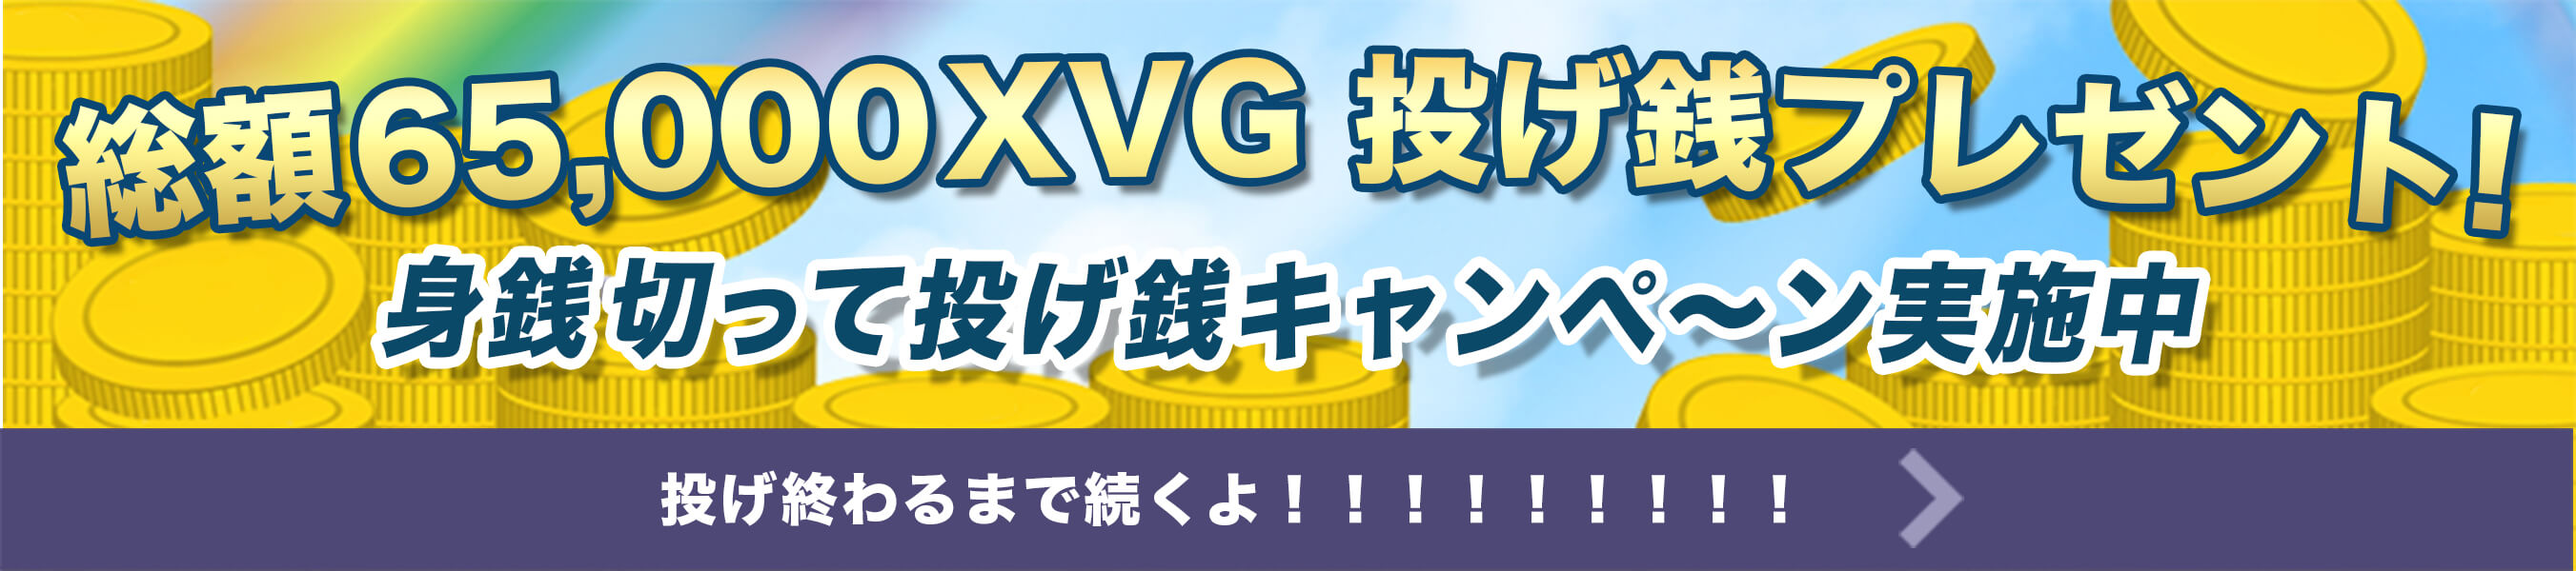
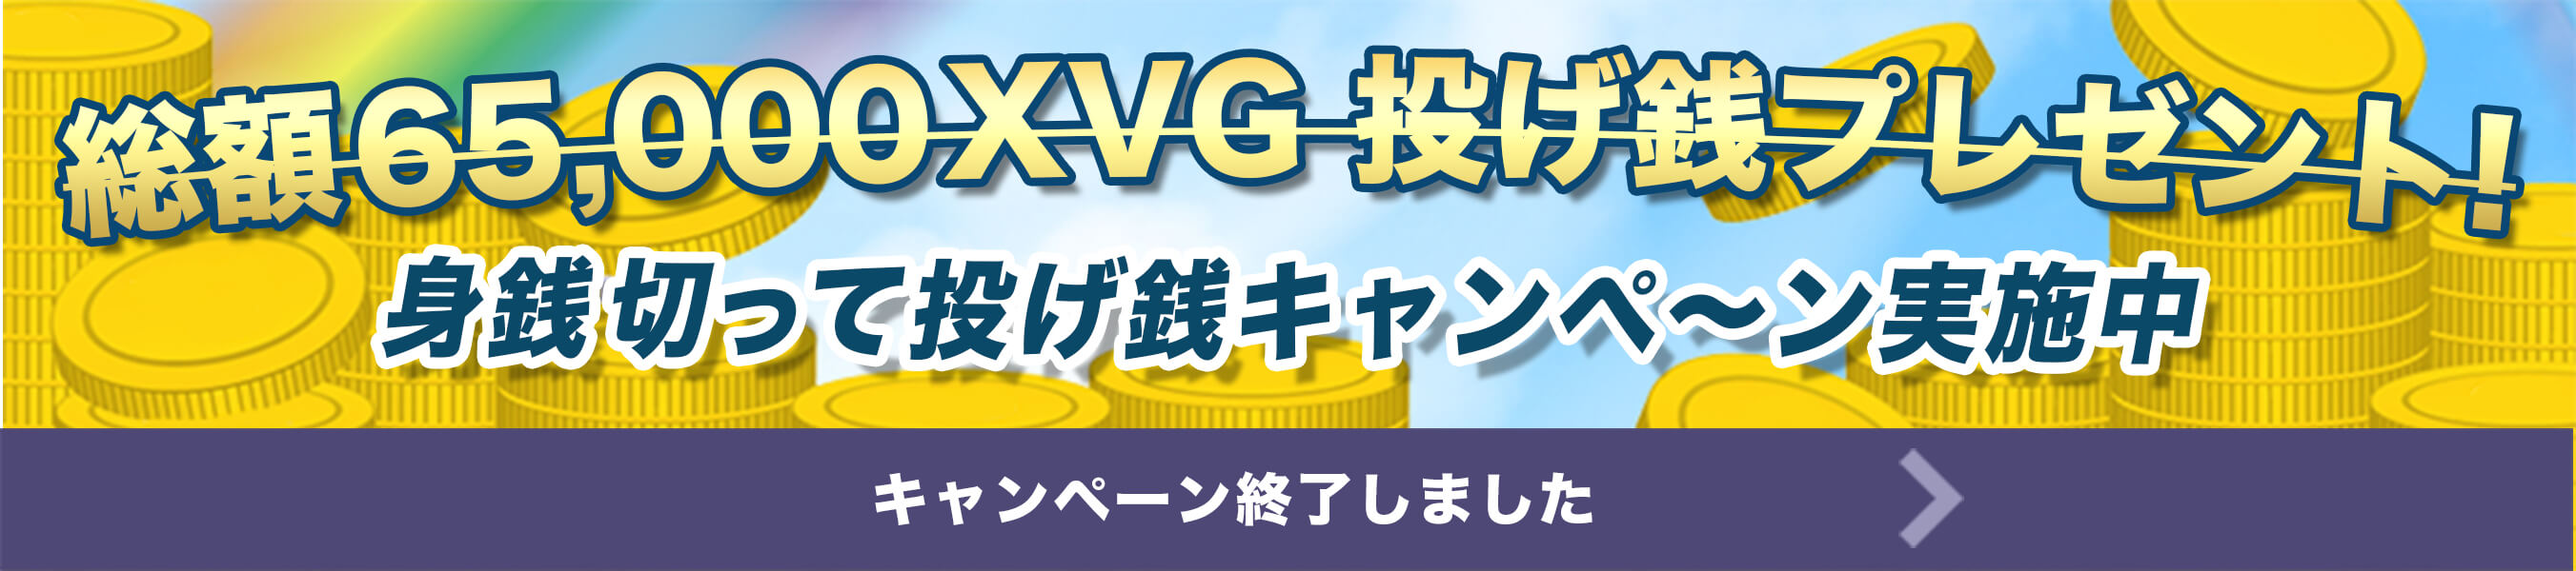
fix

Changed region(s): [[0.2486, 0.81, 0.7148, 0.93], [0.1243, 0.21, 0.9945, 0.36], [0.0, 0.3, 0.0932, 0.33]]

diff --git a/campaign/twitter201711/index.html b/campaign/twitter201711/index.html
@@ -43,78 +43,11 @@
     <div class="wrap">
         <section class="mv" id="mv">
             <img src="images/mv.jpg" />
-            <div class="notification is-info">
-                <ul>
-                    <li>
-                        好評いただいた15,000XVG投げ銭キャンペーンは3日間で投げ終わりました。 
-                        そこで、<a href="https://t.me/VERGEjapan">Verge公認Telegram</a>の古株管理人CrypTomas（<a href="https://twitter.com/bitcoin_unnyou">@bitcoin_unnyou</a>）が30,000XVG、
-                        有志（<a href="https://twitter.com/dateee98">@dateee98</a>）から20,000XVG寄付もらいました！我々より出してる！金持ち！金くれ！感謝感激雨嵐！
-                    </li>
-                    <li>
-                        当キャンペーンの残り期間は、総額65,000XVGが終わるまでに変更されました！
-                    </li>
-                    <li>
-                        バージリスク君からの投げ銭のあと「@vergetips」からリプライが来ます。
-                        でも、 時折twitterが動かずリプライが止まってしまいます。
-                        ただし、バージリスク君と@vergetipsのおかげで、投げ銭できていました！「@vergetips balance」とつぶやいて確認してください。
-                    </li>
-                    <li>
-                        XVGは1日1度しかもらえません！毎日0時辺りからもらえるようになります！
-                    </li>
-                    <li>
-                        また、もし応援したいという方はVergeJapan専用の募金アドレス作りました。
-                        キャンペーン等にしか使わないよう厳重に管理します。
-                        一番下の方に書いておくので、応援してくれる方がいたらぜひ。次のキャンペーンで利用させていただきます。
-                    </li>
-                </ul>
-              </div>
-        </section>
-        
-        <section class="section2">
-            <h2 class="center title">
-                <div><img src="images/xvg_text.png" alt="XVGのもらいかた" /></div>
-            </h2>
-            <div class="step step1">
-                <div>
-                    <p>
-                        <span class="step_number">1</span>
-                        <br> Twitterで
-                        <br> @vergeliscusをフォロー
-                    </p>
-                    <a href="https://twitter.com/intent/follow?screen_name=vergeliscus" target="_blank">
-                        <img src="images/step1_1.jpg" alt="さっそくフォローするバジ！" />
-                    </a>
-                </div>
-                <div>
-                    <p>
-                            <span class="step_number">2</span>
-                        <br> 「@vergeliscus XVGよこせ」とツイート
-                    </p>
-                    <a 
-                        target="_blank" rel="nofollow" class="twitter-link pull_xvg">
-                        <img src="images/step1_2.jpg" alt="次はツイートするバジ！" />
-                    </a>
-                </div>
-                <div>
-                    <p>
-                    <span class="step_number">3</span>
-                    <br> すぐにtipbotから幾ばくかの<br>
-                     XVGがもらえる！
-
-                    </p>
-                </div>
-                <div>
-                    <p>
-                        <span class="step_number">4</span>
-                        <br> 「@vergetips balance」と<br>ツイートして確認
-                    </p>
-                    <a href="https://twitter.com/intent/tweet?text=@vergetips%20balance"
-                        target="_blank"rel="nofollow" class="twitter-link">
-                        <img src="images/step1_3.jpg" alt="最後にツイートするバジ！" />
-                    </a>
-                </div>
+            <div class="notification is-danger"> 
+                キャンペーンは終了したバジ！！
             </div>
         </section>
+        
         <section class="section3">
             <h2 class="center title">
                 <div><img src="images/title2.png" alt="TwitterでXVGを人にあげる方法" /></div>

diff --git a/campaign/twitter201711/css/style.css b/campaign/twitter201711/css/style.css
@@ -14,6 +14,9 @@ body {
 h2{
     margin-bottom: 0 !important;
 }
+.notification.is-danger{
+    text-align: center;
+}
 .notification ul{
     list-style-type: disc;
     padding-left: 5%;
@@ -159,6 +162,11 @@ footer{
 
     .notification ul{
         font-size: 3vw;
+    }
+
+    .notification.is-danger{
+        font-size: 4vw;
+        text-align: center;
     }
     .notice{
         font-size: 3vw;
